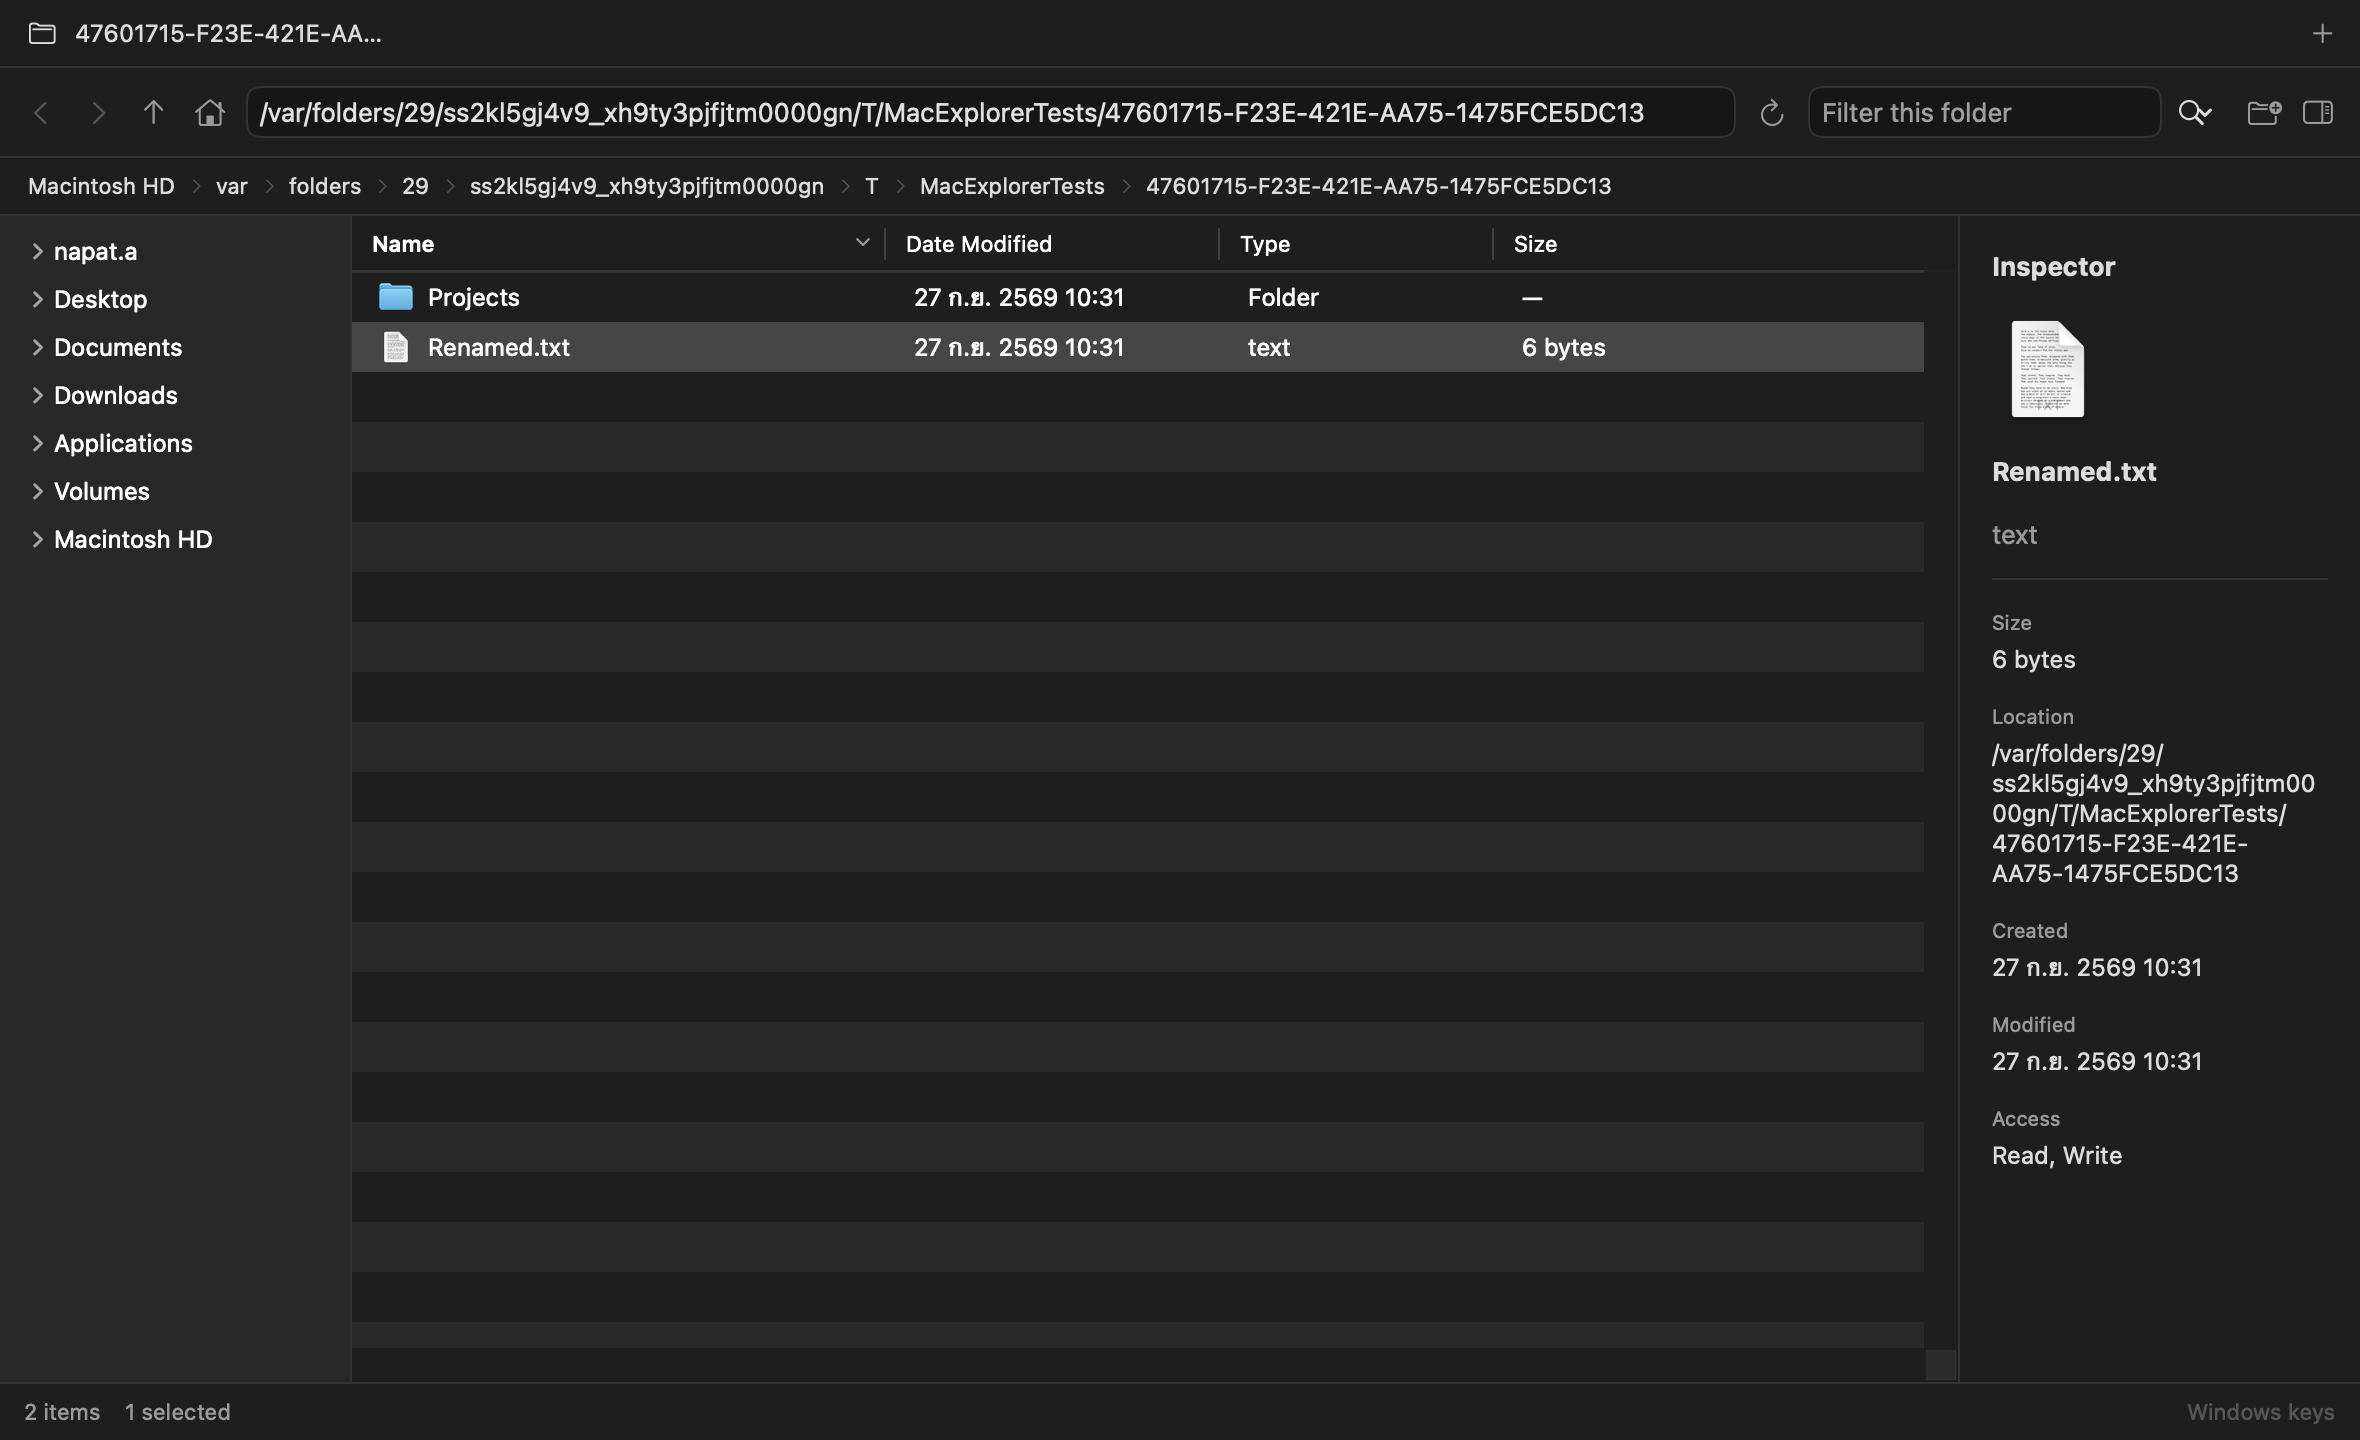
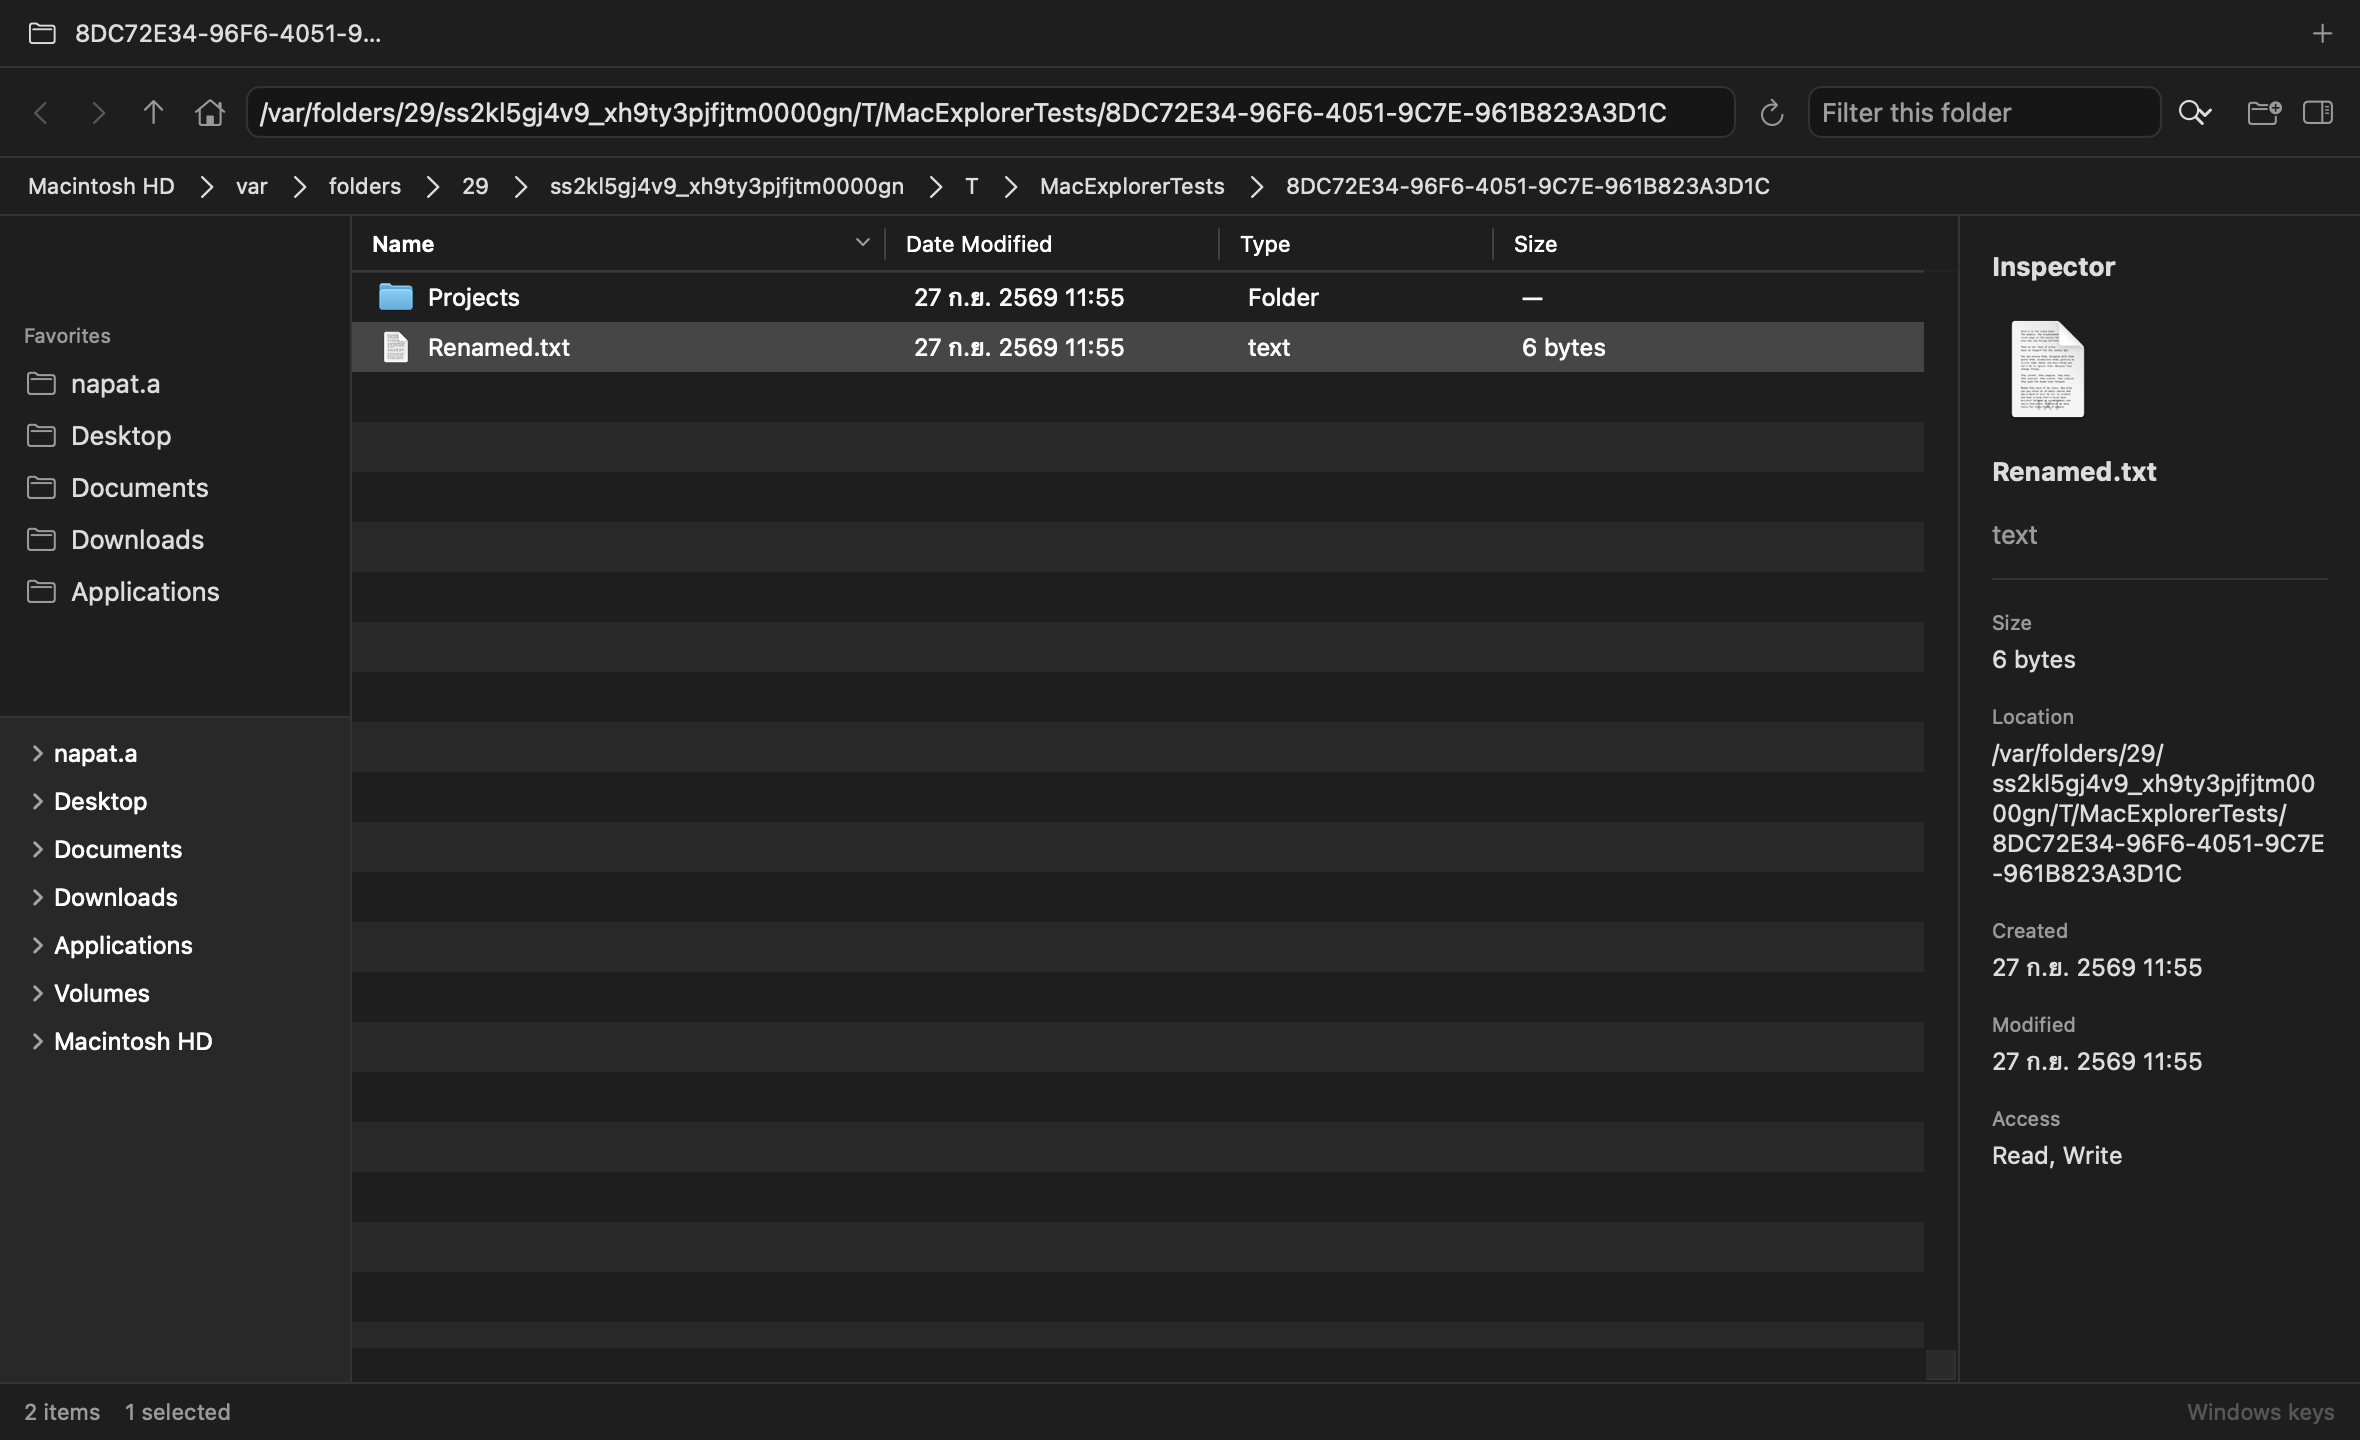
docs: v0.2.0 features (progress+cancel, breadcrumb menus, favorites+recent) and fresh screenshots

diff --git a/docs/how-it-works.th.md b/docs/how-it-works.th.md
@@ -76,3 +76,13 @@ UI (SwiftUI + AppKit)
 ```
 
 ถ้าชื่อซ้ำจะถามก่อนเสมอ ไม่มีเขียนทับเงียบ ถ้าล้มจะบอกว่าของเดิมอยู่ที่ไหน
+
+## ใหม่ใน v0.2.0
+
+- **Progress + Cancel:** ก๊อปไฟล์ใหญ่แบบ stream ทีละ 1MB พร้อมแถบ progress
+  (`Copying A.zip — 12 MB of 48 MB`) และปุ่ม Cancel — ยกเลิกแล้วไฟล์ค้าง
+  ถูกลบ ต้นฉบับอยู่ครบ ไม่มี error หลอก
+- **Breadcrumb dropdown:** เครื่องหมาย `>` ทุกตัวกดเปิดเมนูโฟลเดอร์ข้างเคียงได้
+  มีติ๊กถูกที่ตำแหน่งปัจจุบัน
+- **Favorites + Recent:** ปักหมุดโฟลเดอร์ที่ sidebar (ลากมาหย่อนได้) และเมนู
+  Go → Recent Locations เก็บ 30 ที่ล่าสุด

diff --git a/docs/how-it-works.en.md b/docs/how-it-works.en.md
@@ -80,3 +80,13 @@ Keypress → collision check + validation → work on background actor
 
 A name collision always asks first — never overwrites silently. A failure
 always reports where the original was preserved.
+
+## New in v0.2.0
+
+- **Progress + Cancel:** large copies stream in 1 MB chunks with a progress bar
+  (`Copying A.zip — 12 MB of 48 MB`) and a Cancel button — cancelling removes
+  partial destinations, keeps the source intact, and reports no error.
+- **Breadcrumb dropdowns:** every `>` opens its segment's sibling folders with
+  a checkmark on the current location.
+- **Favorites + Recent:** pin folders in the sidebar (drag to add) and revisit
+  the last 30 locations from Go → Recent Locations.
